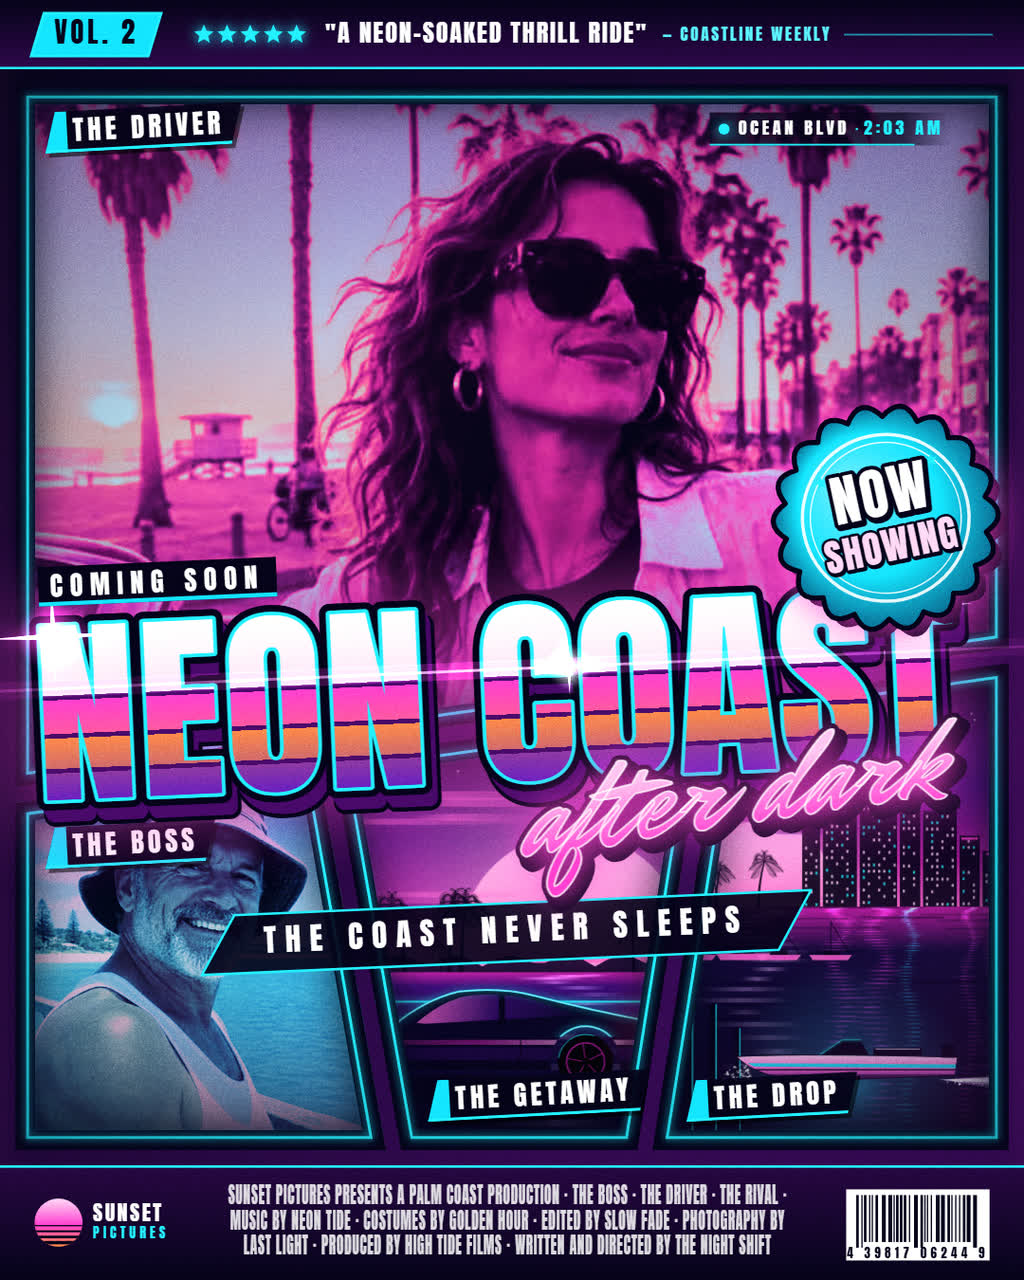
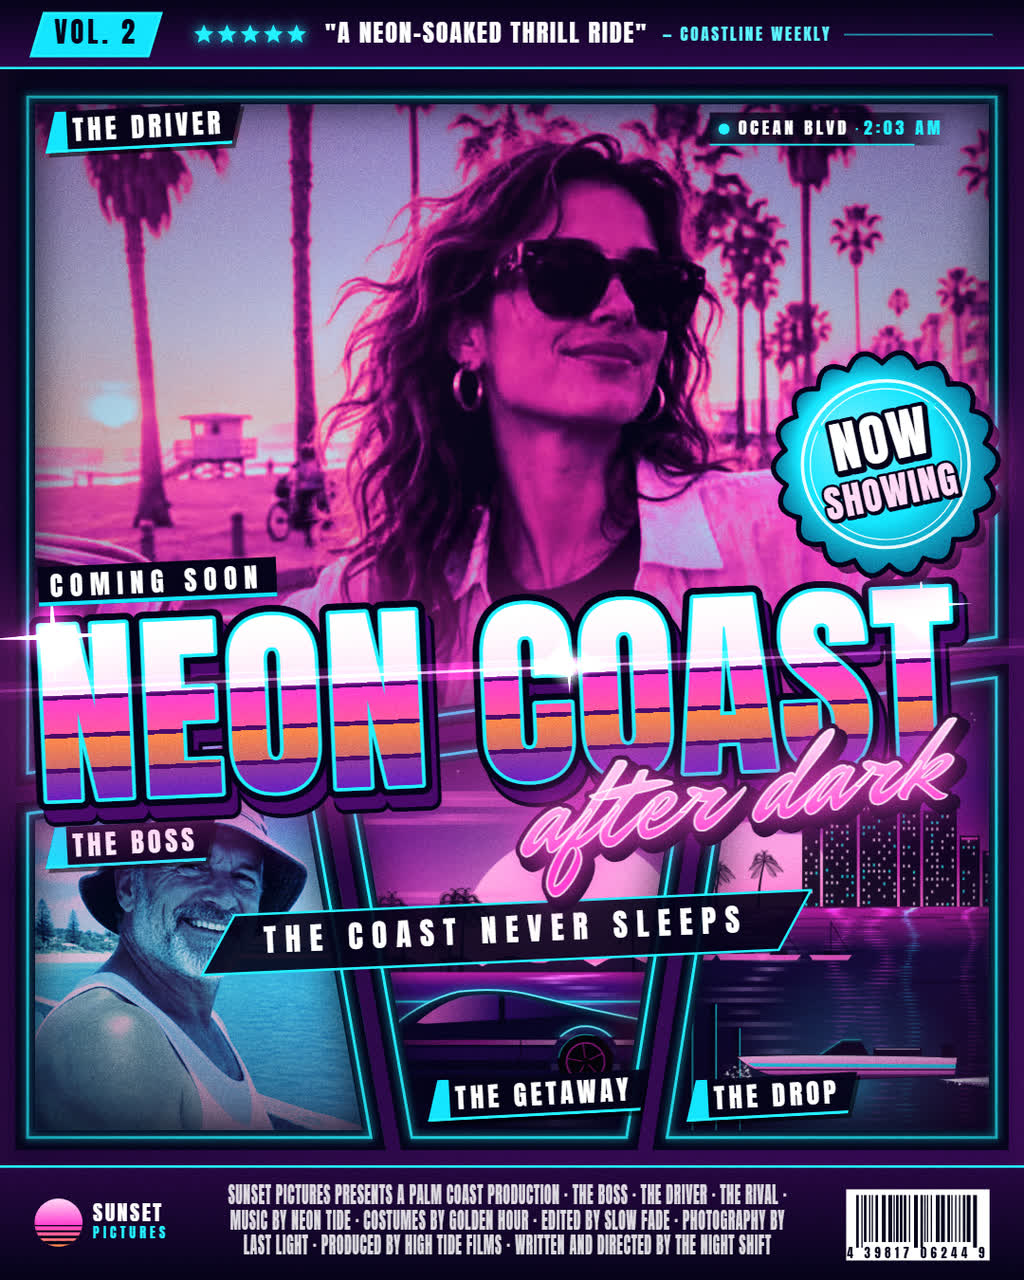
Editor screenshot: square poster fills the stage, neon stage
- Editor screenshot shows a square Neon Nights poster (tilted six
  panels, both leads on top, the boss panel selected), so the poster
  fills the stage instead of leaving half of it empty.
- Stage gets a dusk glow behind the poster, a faint neon horizon grid
  along its floor and a pink glow around the canvas.
- The seal rises above the title when the poster edge would push it
  over the letters.
- Clicking or scrolling on the poster before its first draw no longer
  throws.

Changed region(s): [[0.75, 0.25, 1.0, 0.5312]]

diff --git a/app/style.css b/app/style.css
@@ -80,10 +80,15 @@ input[type=range] { accent-color: var(--hot); width: 100%; margin: 0; }
 .segmented button { flex: 1; border: 0; background: none; padding: 5px 0; cursor: pointer; color: var(--muted); font-weight: 600; font-size: 12px; }
 .segmented button.active { background: var(--hot); color: #fff; }
 
-.stage { display: flex; flex-direction: column; align-items: center; justify-content: center; gap: 8px; padding: 14px; min-width: 0; min-height: 0;
-  background: radial-gradient(circle at 50% 40%, #2a1240, #110818 70%); }
+/* The stage: a dusk glow behind the poster and a faint neon horizon grid along the floor. */
+.stage { position: relative; display: flex; flex-direction: column; align-items: center; justify-content: center; gap: 8px; padding: 12px; min-width: 0; min-height: 0; overflow: hidden;
+  background: radial-gradient(ellipse 70% 55% at 50% 45%, #5a1650 0%, #2a1240 45%, #110818 80%); }
+.stage::before { content: ''; position: absolute; inset: 62% -40% -10%; pointer-events: none; opacity: 0.35;
+  background: repeating-linear-gradient(90deg, #ff3d7f 0 1px, transparent 1px 46px), repeating-linear-gradient(0deg, #ff3d7f 0 1px, transparent 1px 28px);
+  transform: perspective(300px) rotateX(58deg); transform-origin: top; -webkit-mask: linear-gradient(#000, transparent 85%); mask: linear-gradient(#000, transparent 85%); }
+.stage > * { position: relative; }
 .canvas-wrap { position: relative; border: 2px solid transparent; border-radius: 4px; flex: 1; width: 100%; min-height: 0; display: flex; align-items: center; justify-content: center; }
-#poster { max-width: 100%; max-height: 100%; box-shadow: 0 18px 50px #000c, 0 0 0 1px #ffffff14; cursor: grab; touch-action: none; }
+#poster { max-width: 100%; max-height: 100%; box-shadow: 0 18px 50px #000c, 0 0 0 1px #ffffff1f, 0 0 90px -10px #ff3d7f88; cursor: grab; touch-action: none; }
 #poster.dragging { cursor: grabbing; }
 .drop-hint { position: absolute; inset: auto 0 12px; text-align: center; pointer-events: none; opacity: 0; transition: opacity 0.15s; font-weight: 700; color: var(--cyan); text-shadow: 0 1px 4px #000; }
 .canvas-wrap.over .drop-hint { opacity: 1; }

diff --git a/app/src/poster-extras.js b/app/src/poster-extras.js
@@ -442,8 +442,11 @@ export function sealPlacement(state, g, area) {
     x = w - margin - r;
     y = area.top + margin + r;
   } else {
+    // On the title's upper right shoulder; when the poster edge pushes it in over the letters, it rises above them.
     const lx = g.blockW / 2 - r * 0.15;
-    const ly = -g.blockH / 2 - r * 0.62;
+    const edgeX = g.x + lx * Math.cos(g.angle);
+    const pushedIn = Math.max(0, edgeX + r + margin - w);
+    const ly = -g.blockH / 2 - r * (0.62 + Math.min(0.5, pushedIn / r));
     x = g.x + lx * Math.cos(g.angle) - ly * Math.sin(g.angle);
     y = g.y + lx * Math.sin(g.angle) + ly * Math.cos(g.angle);
   }

diff --git a/app/src/panel-drag.js b/app/src/panel-drag.js
@@ -11,6 +11,7 @@ function posterPoint(canvas, state, event) {
 
 /** Finds the top-most panel under a poster point (floating cards first, as they sit on top). */
 export function findPanelAt(layout, point) {
+  if (!layout) return null; // nothing drawn yet
   for (let i = layout.panels.length - 1; i >= 0; i--) {
     const panel = layout.panels[i];
     if (panel.poly.length > 2 && pointInPolygon(point, panel.poly)) return panel;
